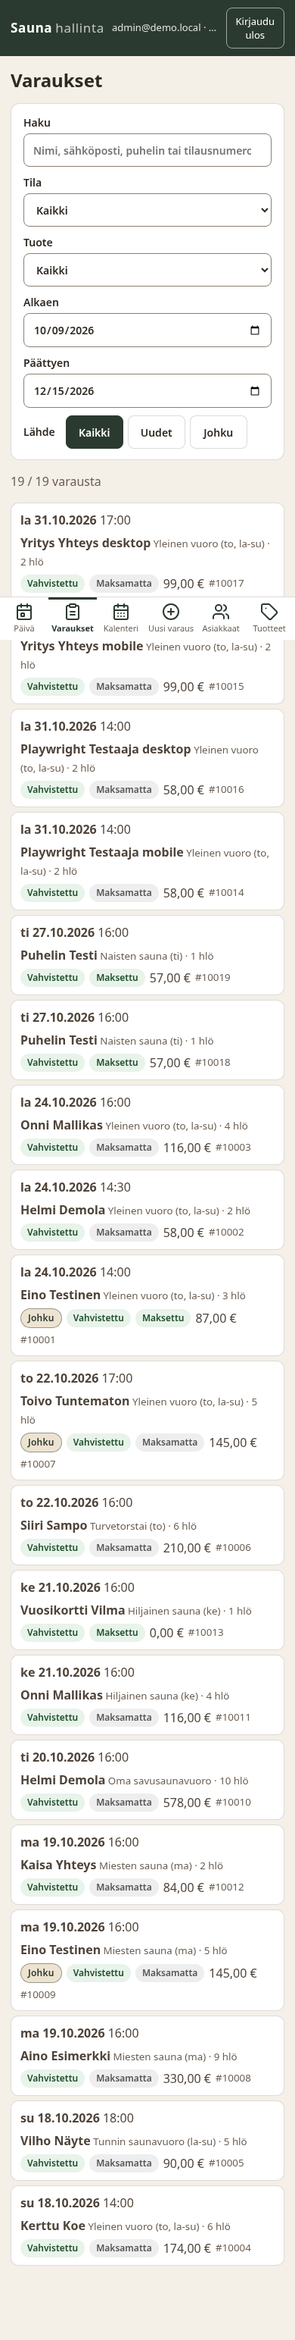
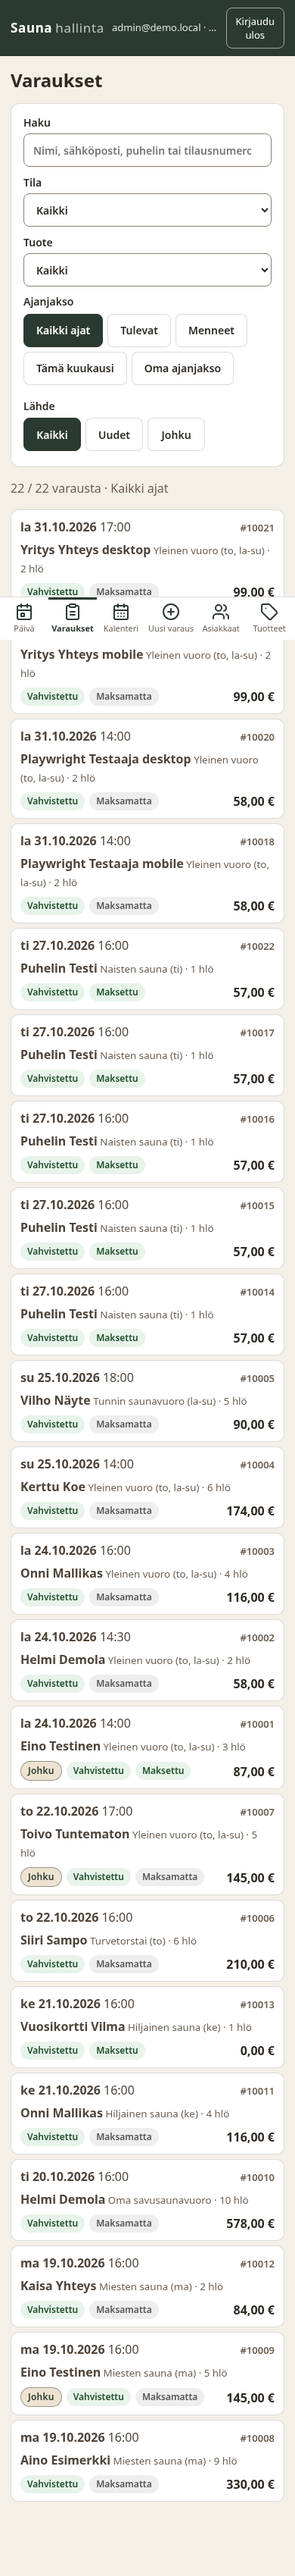
Hallinta: varauslistaan Kaikki ajat -haku ja siistitty varauskortti (#8)

Changed region(s): [[0.0308, 0.0, 0.9538, 0.964], [0.7692, 0.0, 0.9846, 0.0311], [0.8923, 0.0622, 0.9231, 0.1244]]

diff --git a/booking/admin/views/reservations.js b/booking/admin/views/reservations.js
@@ -1,5 +1,7 @@
-// Varauslista: haku (nimi/sähköposti/puhelin/tilausnumero), suodattimet (tila, tuote, aikaväli, lähde Kaikki/Uudet/Johku), sivutus.
+// Varauslista: haku (nimi/sähköposti/puhelin/tilausnumero), suodattimet (tila, tuote, ajanjakso, lähde Kaikki/Uudet/Johku), sivutus.
+// Ajanjakso (pikavalinta): Kaikki ajat (oletus; p_from/p_to = null, RPC sallii null) / Tulevat (tästä päivästä alkaen) / Menneet (ennen tätä päivää) / Tämä kuukausi / Oma ajanjakso (Alkaen/Päättyen näkyvät vain silloin).
 // Lähdesuodatin → RPC:n p_source ('native' = Uudet, 'johku' = Johku; Kaikki = parametria ei lähetetä → null). Johku-varauksilla "Johku"-tunniste.
+export const PERIODS = [['all', 'Kaikki ajat'], ['upcoming', 'Tulevat'], ['past', 'Menneet'], ['month', 'Tämä kuukausi'], ['custom', 'Oma ajanjakso']];
 export const SOURCE_FILTERS = [['', 'Kaikki'], ['native', 'Uudet'], ['johku', 'Johku']];
 import { rpc } from '../sb.js';
 import { h, fmtDate, fmtTime, todayHel, addDays, dayStartIso, statusBadge, payBadge, sourceBadge, money, field, empty, errMsg, STATUS } from '../ui.js';
@@ -7,13 +9,25 @@ import { reservationDialog } from './shared.js';
 
 export async function render({ refs, reload }) {
   const PAGE = 50;
-  const f = { search: '', status: '', product: '', source: '', from: addDays(todayHel(), -7), to: addDays(todayHel(), 60) };
+  const f = { search: '', status: '', product: '', source: '', period: 'all', from: addDays(todayHel(), -7), to: addDays(todayHel(), 60) };
+  // valittu ajanjakso → { from: alkupäivä | null, toExcl: päättymispäivän jälkeinen päivä | null } (null = ei rajaa)
+  const range = () => {
+    const today = todayHel();
+    if (f.period === 'upcoming') return { from: today, toExcl: null };
+    if (f.period === 'past') return { from: null, toExcl: today };
+    if (f.period === 'month') { const first = `${today.slice(0, 8)}01`; return { from: first, toExcl: `${addDays(first, 32).slice(0, 8)}01` }; }
+    if (f.period === 'custom') return { from: f.from || null, toExcl: f.to ? addDays(f.to, 1) : null };
+    return { from: null, toExcl: null };
+  };
+  const fd = (d) => d.split('-').reverse().map(Number).join('.');
+  const periodLabel = () => { const r = range(); if (f.period !== 'custom') return PERIODS.find(([k]) => k === f.period)[1]; return !r.from && !r.toExcl ? 'Kaikki ajat' : r.from && r.toExcl ? `${fd(r.from)}–${fd(addDays(r.toExcl, -1))}` : r.from ? `alkaen ${fd(r.from)}` : `asti ${fd(addDays(r.toExcl, -1))}`; };
   const list = h('div', { class: 'list' }); const more = h('div', { class: 'row center' }); const count = h('p', { class: 'muted' });
   let offset = 0;
   async function load(reset) {
     if (reset) { offset = 0; list.replaceChildren(); }
+    const rg = range();
     const args = {
-      p_from: f.from ? dayStartIso(f.from) : null, p_to: f.to ? dayStartIso(addDays(f.to, 1)) : null, p_search: f.search || null,
+      p_from: rg.from ? dayStartIso(rg.from) : null, p_to: rg.toExcl ? dayStartIso(rg.toExcl) : null, p_search: f.search || null,
       p_status: f.status || null, p_product_id: f.product ? +f.product : null, p_limit: PAGE, p_offset: offset };
     if (f.source) args.p_source = f.source;   // Kaikki: ei parametria (toimii myös ennen migraatiota 12)
     let rows;
@@ -22,21 +36,29 @@ export async function render({ refs, reload }) {
     }
     const total = rows[0]?.total_count ?? 0;
     if (reset && !rows.length) list.append(empty('Ei varauksia hakuehdoilla.'));
-    for (const r of rows) list.append(h('button', { type: 'button', class: 'listrow', onclick: () => reservationDialog(r, { methods: refs.methods, onChange: () => load(true) }) },
-      h('span', { class: 'when' }, h('strong', { text: fmtDate(r.starts_at) }), ` ${fmtTime(r.starts_at)}`),
-      h('span', { class: 'what' }, h('strong', { text: r.customer_name || '–' }), h('small', { text: ` ${r.product_name} · ${r.persons} hlö` })),
-      h('span', { class: 'meta' }, sourceBadge(r), statusBadge(r.status), payBadge(r.payment_status), h('span', { text: money(r.total_gross) }), h('small', { text: `#${r.order_no}` }))));
-    offset += rows.length; count.textContent = `${Math.min(offset, total)} / ${total} varausta`;
+    // kortti: ylärivillä aika (vasen) + tilausnumero (oikea yläkulma), keskellä nimi + tuote, alarivillä merkit (vasen alakulma) + hinta (oikea alakulma)
+    for (const r of rows) list.append(h('button', { type: 'button', class: 'listrow rescard', onclick: () => reservationDialog(r, { methods: refs.methods, onChange: () => load(true) }) },
+      h('span', { class: 'rc-when' }, h('strong', { text: fmtDate(r.starts_at) }), ` ${fmtTime(r.starts_at)}`),
+      h('span', { class: 'rc-no', text: `#${r.order_no}`, title: 'Tilausnumero' }),
+      h('span', { class: 'rc-what' }, h('strong', { text: r.customer_name || '–' }), h('small', { text: ` ${r.product_name} · ${r.persons} hlö` })),
+      h('span', { class: 'meta rc-badges' }, sourceBadge(r), statusBadge(r.status), payBadge(r.payment_status)),
+      h('span', { class: 'rc-price', text: money(r.total_gross) })));
+    offset += rows.length; count.textContent = `${Math.min(offset, total)} / ${total} varausta · ${periodLabel()}`;
     more.replaceChildren(offset < total ? h('button', { type: 'button', class: 'btn ghost', onclick: () => load(false) }, 'Näytä lisää') : '');
   }
   const bind = (el, key, ev = 'input') => { let t; el.addEventListener(ev, () => { f[key] = el.value; clearTimeout(t); t = setTimeout(() => load(true), ev === 'input' ? 250 : 0); }); return el; };
-  const sourceSet = h('fieldset', { class: 'srcset', 'data-testid': 'source-filter' }, h('legend', { text: 'Lähde' }),
-    SOURCE_FILTERS.map(([v, label]) => h('label', { class: 'srcopt' }, h('input', { type: 'radio', name: 'source', value: v, checked: v === f.source || null, onchange: () => { f.source = v; load(true); } }), h('span', { text: label }))));
+  // pikavalintaryhmä (radiogroup: nuolinäppäimet vaihtavat valintaa)
+  const seg = (legend, name, opts, cur, onPick, testid) => h('fieldset', { class: 'srcset', 'data-testid': testid }, h('legend', { text: legend }),
+    opts.map(([v, label]) => h('label', { class: 'srcopt' }, h('input', { type: 'radio', name, value: v, checked: v === cur || null, onchange: () => onPick(v) }), h('span', { text: label }))));
+  const dates = h('div', { class: 'perdates', hidden: true },
+    field('Alkaen', bind(h('input', { type: 'date', value: f.from }), 'from', 'change')), field('Päättyen', bind(h('input', { type: 'date', value: f.to }), 'to', 'change')));
+  const periodSet = seg('Ajanjakso', 'period', PERIODS, f.period, (v) => { f.period = v; dates.hidden = v !== 'custom'; load(true); }, 'period-filter');
+  const sourceSet = seg('Lähde', 'source', SOURCE_FILTERS, f.source, (v) => { f.source = v; load(true); }, 'source-filter');
   const filters = h('div', { class: 'filters card' },
     field('Haku', bind(h('input', { type: 'search', placeholder: 'Nimi, sähköposti, puhelin tai tilausnumero' }), 'search')),
     field('Tila', bind(h('select', {}, h('option', { value: '', text: 'Kaikki' }), Object.entries(STATUS).map(([k, v]) => h('option', { value: k, text: v }))), 'status', 'change')),
     field('Tuote', bind(h('select', {}, h('option', { value: '', text: 'Kaikki' }), refs.products.filter((p) => p.config?.bookable).map((p) => h('option', { value: p.id, text: p.name }))), 'product', 'change')),
-    field('Alkaen', bind(h('input', { type: 'date', value: f.from }), 'from', 'change')), field('Päättyen', bind(h('input', { type: 'date', value: f.to }), 'to', 'change')), sourceSet);
+    h('div', { class: 'filter-groups' }, periodSet, dates, sourceSet));
   await load(true);
   return [h('h1', { text: 'Varaukset' }), filters, count, list, more];
 }

diff --git a/booking/admin/admin.css b/booking/admin/admin.css
@@ -53,12 +53,12 @@ button.link{background:none;border:0;padding:6px 0;font:inherit;color:var(--ink)
 .toolbar{display:flex;gap:8px;align-items:center;flex-wrap:wrap;margin-bottom:12px}
 .toolbar input[type=date]{width:auto}
 .filters{display:grid;gap:10px;margin-bottom:10px}
-@media(min-width:700px){.filters{grid-template-columns:2fr 1fr 1fr 1fr 1fr}}
+@media(min-width:700px){.filters{grid-template-columns:2fr 1fr 1fr}.filters .filter-groups{grid-column:1/-1}}
 .list{display:grid;gap:6px;margin:8px 0}
 .listrow{display:grid;gap:6px;text-align:left;font:inherit;color:var(--text);background:#fff;border:1px solid var(--line);border-radius:10px;padding:10px 12px;cursor:pointer;width:100%}
 .listrow:hover{border-color:var(--green)}
 .listrow .meta,.resrow .meta{display:flex;gap:6px;align-items:center;flex-wrap:wrap}
-@media(min-width:700px){.listrow{grid-template-columns:150px 1fr auto;align-items:center}}
+@media(min-width:700px){.listrow:not(.rescard){grid-template-columns:150px 1fr auto;align-items:center}}
 .badge{display:inline-block;font-size:12px;font-weight:600;padding:3px 9px;border-radius:20px;background:#ece8e3;color:#5b524a;white-space:nowrap}
 .badge.ok,.badge.st-confirmed,.badge.pay-paid{background:var(--okbg);color:var(--ok)}
 .badge.err,.badge.st-cancelled,.badge.st-expired,.badge.st-no_show,.badge.pay-failed{background:#f3e3e3;color:var(--err)}
@@ -75,7 +75,19 @@ button.link{background:none;border:0;padding:6px 0;font:inherit;color:var(--ink)
 .srcopt span{display:inline-flex;align-items:center;justify-content:center;min-height:44px;min-width:76px;padding:0 16px;border:1px solid var(--line);border-radius:8px;background:#fff;color:var(--ink);font-weight:600;font-size:14px}
 .srcopt input:checked+span{background:var(--green);border-color:var(--green);color:#fff}
 .srcopt input:focus-visible+span{outline:3px solid var(--gold);outline-offset:2px}
-@media(min-width:700px){.filters .srcset{grid-column:1/-1}}
+/* ajanjakso + lähde: pikavalintaryhmät, otsikko ryhmän yläpuolella; oma ajanjakso -päivämääräkentät vain valittaessa */
+.filter-groups{display:flex;flex-wrap:wrap;gap:12px 32px;min-width:0}
+.srcset legend{float:none;display:block;width:100%;line-height:1.4;margin:0 0 6px}
+.srcset{display:block}.srcset .srcopt{margin:0 6px 6px 0}
+.perdates{flex:1 1 100%;display:grid;grid-template-columns:repeat(2,minmax(0,1fr));gap:10px;max-width:520px}
+.perdates[hidden]{display:none}
+/* varauskortti: aika + tilausnumero ylärivillä, nimi + tuote keskellä, merkit vasemmassa ja hinta oikeassa alakulmassa */
+.rescard{grid-template-columns:minmax(0,1fr) auto;align-items:baseline;gap:4px 12px}
+.rescard .rc-when{grid-column:1;min-width:0}
+.rescard .rc-no{grid-column:2;justify-self:end;font-size:13px;font-weight:600;color:var(--muted);font-variant-numeric:tabular-nums}
+.rescard .rc-what{grid-column:1/-1;min-width:0;overflow-wrap:anywhere;padding:2px 0 4px}
+.rescard .rc-badges{grid-column:1;align-self:end;min-width:0}
+.rescard .rc-price{grid-column:2;justify-self:end;align-self:end;font-weight:700;color:var(--ink);white-space:nowrap;font-variant-numeric:tabular-nums}
 .empty{color:var(--muted);padding:14px 0}
 /* päivänäkymä */
 .daygrid{display:grid;gap:10px}

diff --git a/booking/README.md b/booking/README.md
@@ -14,7 +14,7 @@ Ei palvelinkoodia, ei build-vaihetta selaimen koodille, ei kirjastoriippuvuuksia
 | `supabase/manual/` | Käsin tehtävät vaiheet: skeeman avaus REST:iin, ensimmäinen admin, tarkistuskyselyt |
 | `shared/sb.js` | ~110 rivin PostgREST/Auth-asiakas (käytetään kaupassa ja hallinnassa) |
 | `shop/` | Varauskauppa: **kopio uudesta sivustosta**, jossa Johku-linkit avaavat sisäisen kalenterin |
-| `admin/` | Hallinta-SPA (mobiili ensin + työpöytä), Supabase Auth. Näkymät: Päivä (+ lisäpalvelujen "Valmistele"-yhteenveto), Varaukset (**lähdesuodatin Kaikki / Uudet / Johku**; Johku-varauksilla "Johku"-tunniste), **Kalenteri** (työvuorot + varaukset), Uusi varaus (asiakastyyppi, lisäpalvelut), Asiakkaat (**Lisää asiakas**: yksityinen/yritys), Tuotteet (+ **Lisäpalvelut**), Resurssit, Asetukset, **Käyttäjät** (vain admin) |
+| `admin/` | Hallinta-SPA (mobiili ensin + työpöytä), Supabase Auth. Näkymät: Päivä (+ lisäpalvelujen "Valmistele"-yhteenveto), Varaukset (**Ajanjakso**-pikavalinta Kaikki ajat (oletus) / Tulevat / Menneet / Tämä kuukausi / Oma ajanjakso, **lähdesuodatin Kaikki / Uudet / Johku**; Johku-varauksilla "Johku"-tunniste; kortin oikeassa yläkulmassa tilausnumero ja oikeassa alakulmassa hinta), **Kalenteri** (työvuorot + varaukset), Uusi varaus (asiakastyyppi, lisäpalvelut), Asiakkaat (**Lisää asiakas**: yksityinen/yritys), Tuotteet (+ **Lisäpalvelut**), Resurssit, Asetukset, **Käyttäjät** (vain admin) |
 | `supabase/functions/admin-users/` | Edge Function (Deno, `verify_jwt = true`): käyttäjien kutsu, käytöstä poisto ja aktivointi. Validointilogiikka `logic.js` + testit |
 | `dev/` | Paikallinen demo: PostgREST-konfiguraatio, kehityspalvelin (mock-auth), demo-siemen |
 | `scripts/e2e-screenshots.mjs` | Playwright-savutesti + kuvakaappaukset + konsolivirhetarkistus |
@@ -303,3 +303,6 @@ Hinnat ja tuotetekstit **eivät** ole sääntöjä: ne muokataan hallinnan Tuott
 ## Avoimet kysymykset
 
 Ks. [docs/ristiriidat-ja-tulkinnat.md](docs/ristiriidat-ja-tulkinnat.md) (yhteenveto raportissa).
+
+### Varauslistan ajanjakso
+`Kaikki ajat` kutsuu `admin_list_reservations`:ia ilman päivärajoja (`p_from`/`p_to` = null; funktio sallii nullin, ei SQL-muutoksia). `Tulevat` = tästä päivästä alkaen, `Menneet` = ennen tätä päivää, `Tämä kuukausi` = kuukauden 1. päivä – seuraavan kuun 1. päivä, `Oma ajanjakso` näyttää Alkaen/Päättyen-kentät (tyhjä kenttä = ei rajaa). Lista sivutetaan (50 / sivu, `Näytä lisää`; funktion yläraja 500 / kutsu), joten tuhansia Johku-varauksia sisältävä "Kaikki ajat" ei kuormita. Tulosrivi: `11 / 11 varausta · Kaikki ajat`.
